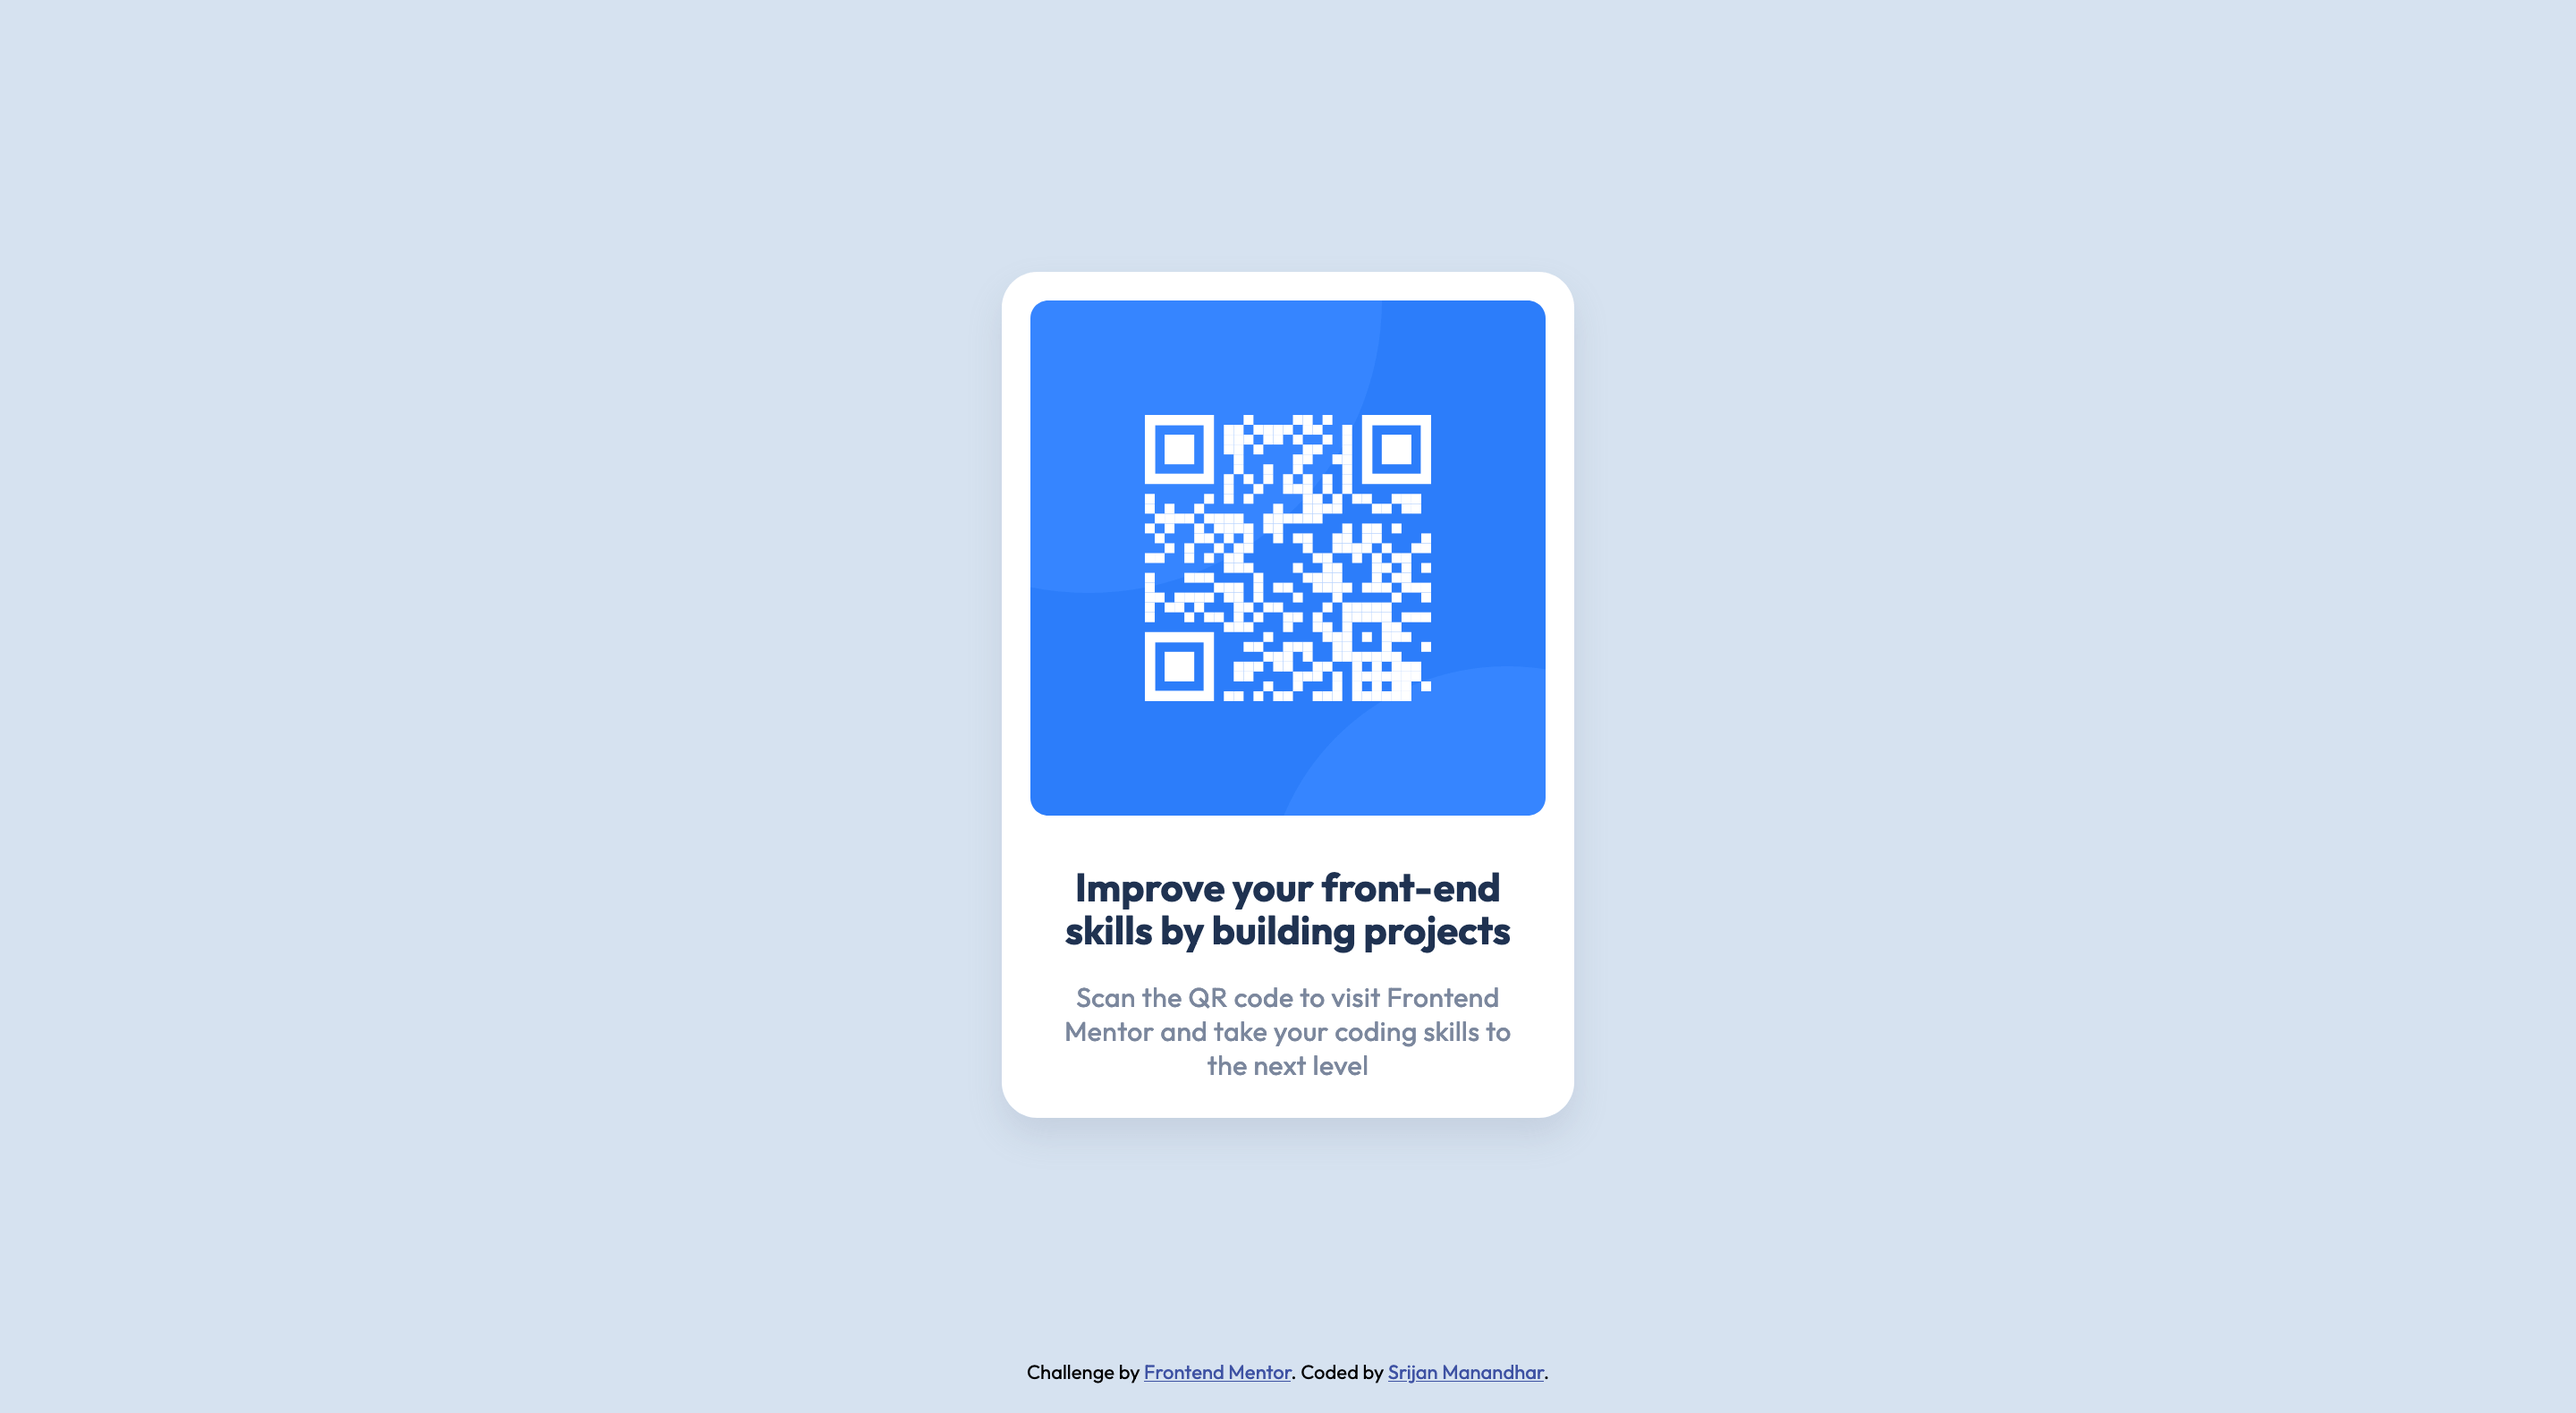
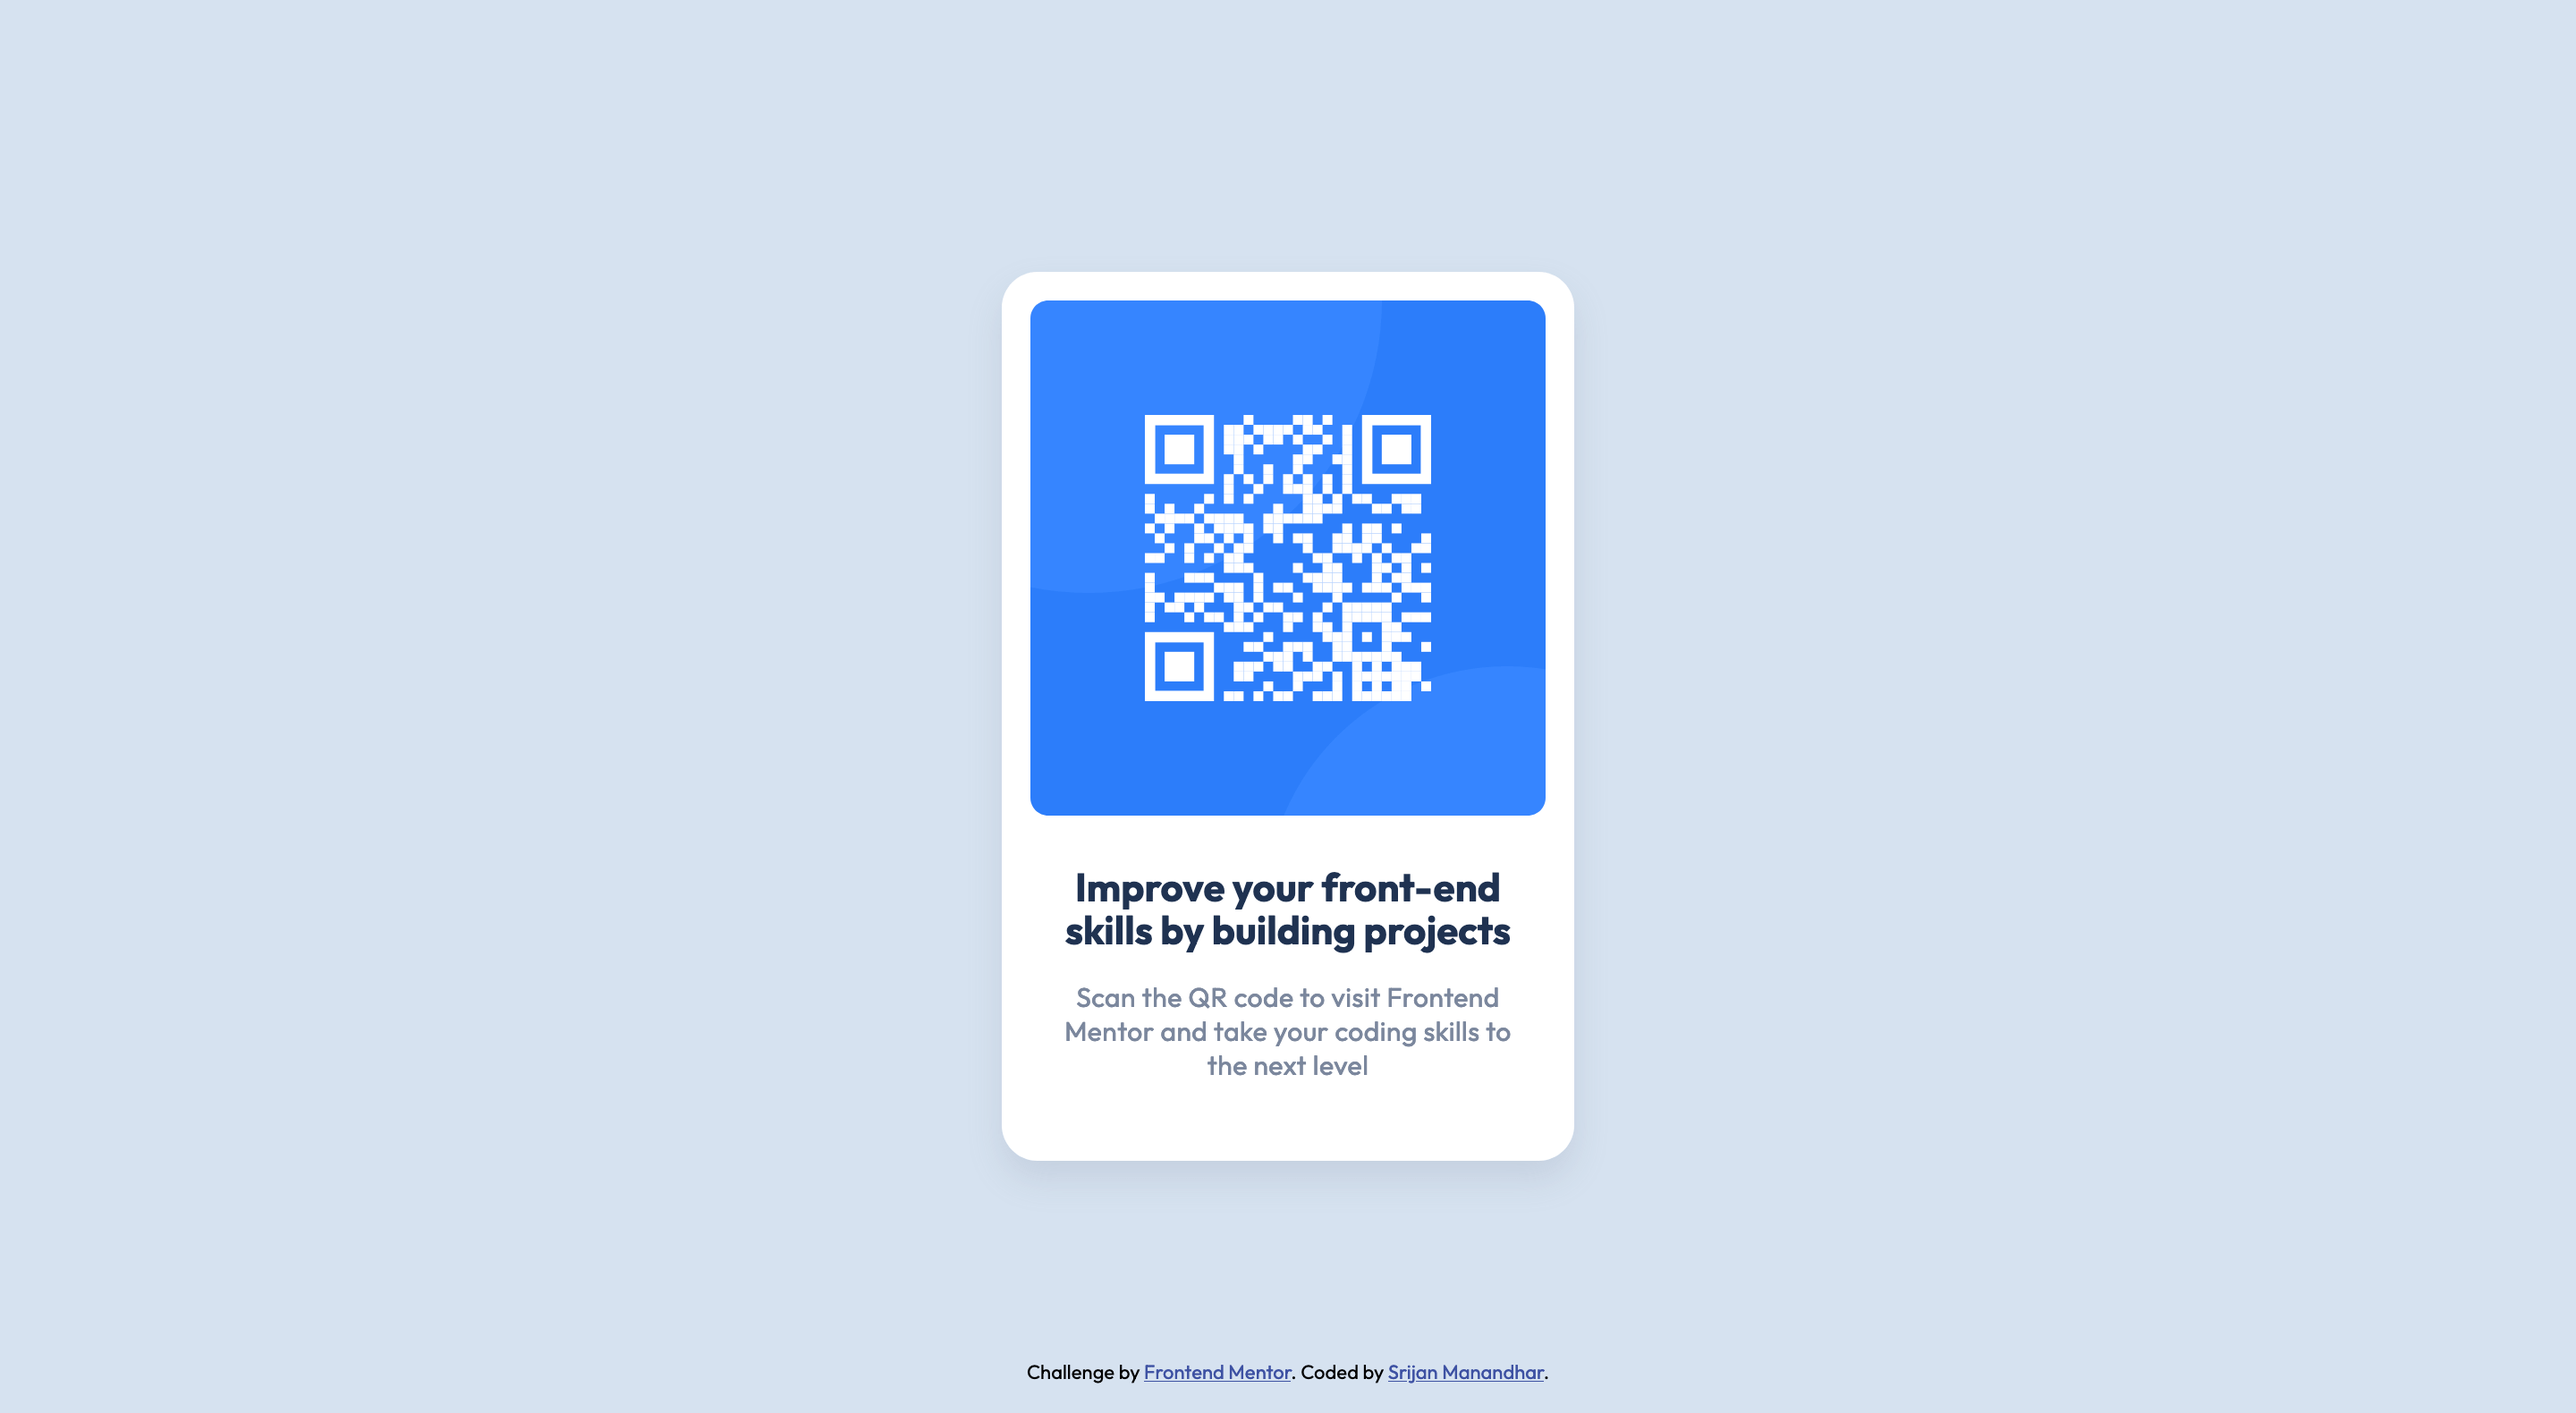
Update card height in styles.css to match the design

Changed region(s): [[0.375, 0.7753, 0.625, 0.8373]]

diff --git a/styles.css b/styles.css
@@ -10,7 +10,7 @@
   --font-weight-regular: 400;
   --font-weight-bold: 700;
   --card-width: 320px;
-  --card-height: 473px;
+  --card-height: 497px;
 }
 
 *,

diff --git a/README.md b/README.md
@@ -47,7 +47,7 @@ This is a solution to the [QR code component challenge on Frontend Mentor](https
   --font-weight-regular: 400;
   --font-weight-bold: 700;
   --card-width: 320px;
-  --card-height: 473px;
+  --card-height: 497px;
 }
 ```
 
